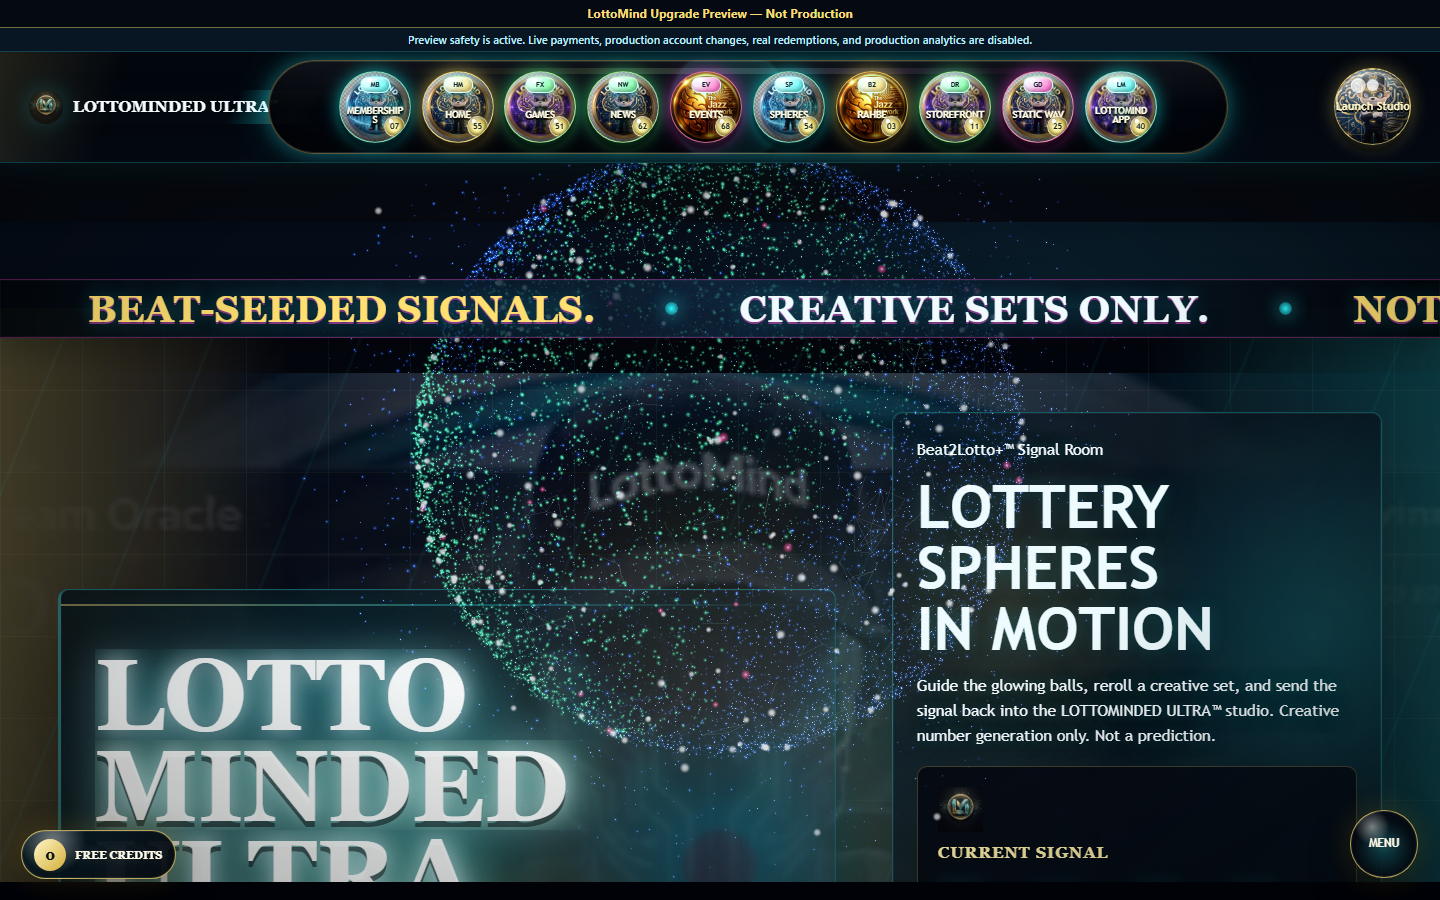
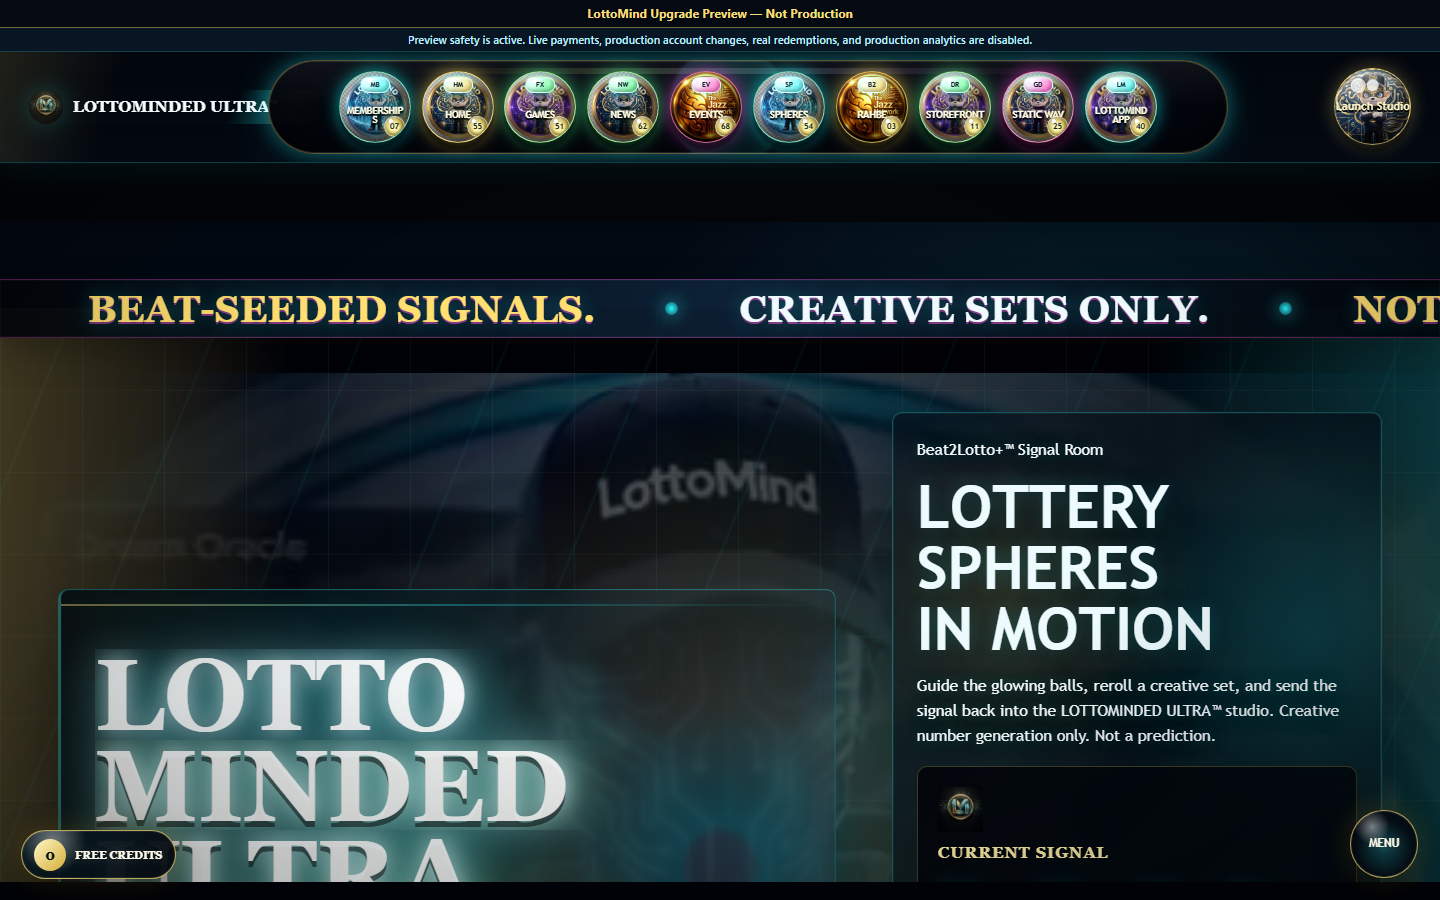
docs: record HUD rail and particle cleanup verification

Changed region(s): [[0.2812, 0.3733, 0.7188, 0.84], [0.3125, 0.1867, 0.6875, 0.3422]]

diff --git a/docs/staging-reviews/signal-media-corrections.md b/docs/staging-reviews/signal-media-corrections.md
@@ -121,3 +121,27 @@
 - Accessibility: The close control has an accessible name, all actions remain keyboard reachable, and reduced-motion capture leaves no running animation.
 - Safety: Staging remains noindex and continues to block live payments, account writes, real redemptions, and production analytics.
 - Approval status: **Ready for next phase.** Production remains unchanged and not approved.
+
+## 2026-07-28 Membership HUD, Arcade Rail, And Particle Cleanup Addendum
+
+- Implementation commits: `63d9025a36bcb9d27348590d13af42f4a107e67e` and `34ef2bdaa282d55339c35b8ccbf54d4c02b8c089`
+- Refreshed routes: Home, Memberships, Arcade, and Storefront
+- Refreshed viewports: 1440x900, 768x1024, and 390x844
+- Verification: 12/12 captures passed HTTP, noindex, staging-banner, horizontal-overflow, console-error, page-error, and same-origin asset checks
+- Membership improvement: The existing inline membership film now uses a cyan, gold, and violet signal HUD with clipped corners, telemetry, and a responsive readout. The film source and commercial lifecycle are unchanged.
+- Arcade improvement: The eight-route game directory is now a keyboard-accessible horizontal snap rail with labeled previous and next controls. The Raytrace Pong display title is now `RAYCHASE PONG`; its playable route is unchanged.
+- Home intentional departure: The WebGL particle entity and floating signal-particle layer were removed at the user's direction. The cinematic film, scan treatment, Guardian cursor, black/gold/cyan/violet palette, and responsible-entertainment language remain recognizable.
+- Storefront intentional departure: The music-reactive equalizer strip was removed. The commercial, playback controls, piano keyboard, FX controls, products, and local-only preorder behavior remain available.
+- Accessibility: The Arcade rail is keyboard focusable, its controls have accessible labels, and reduced-motion mode disables smooth rail scrolling and HUD animation.
+- Performance: Removing the Home WebGL entity eliminates its particle render workload; removing the Storefront analyzer eliminates its per-frame visualizer updates.
+- Safety: Staging remains noindex and visibly labeled. Live payments, production account writes, real redemptions, and production analytics remain blocked.
+- Approval status: **Ready for next phase.** Production remains unchanged and not approved.
+
+### Refreshed Visual Evidence
+
+| Surface | v1 baseline | Staging |
+| --- | --- | --- |
+| Home | [Desktop](../visual-baseline/v1/home--desktop.png) / [Tablet](../visual-baseline/v1/home--tablet.png) / [Mobile](../visual-baseline/v1/home--mobile.png) | [Desktop](./signal-media-corrections-assets/home-1440x900.png) / [Tablet](./signal-media-corrections-assets/home-768x1024.png) / [Mobile](./signal-media-corrections-assets/home-390x844.png) |
+| Membership inline HUD | [Desktop](../visual-baseline/v1/memberships--desktop.png) / [Tablet](../visual-baseline/v1/memberships--tablet.png) / [Mobile](../visual-baseline/v1/memberships--mobile.png) | [Desktop](./signal-media-corrections-assets/membership-inline-hud-1440x900.png) / [Tablet](./signal-media-corrections-assets/membership-inline-hud-768x1024.png) / [Mobile](./signal-media-corrections-assets/membership-inline-hud-390x844.png) |
+| Arcade directory | [Desktop](../visual-baseline/v1/features-app--desktop.png) / [Tablet](../visual-baseline/v1/features-app--tablet.png) / [Mobile](../visual-baseline/v1/features-app--mobile.png) | [Desktop](./signal-media-corrections-assets/arcade-directory-1440x900.png) / [Tablet](./signal-media-corrections-assets/arcade-directory-768x1024.png) / [Mobile](./signal-media-corrections-assets/arcade-directory-390x844.png) |
+| Storefront console | [Desktop](../visual-baseline/v1/merch-store--desktop.png) / [Tablet](../visual-baseline/v1/merch-store--tablet.png) / [Mobile](../visual-baseline/v1/merch-store--mobile.png) | [Desktop](./signal-media-corrections-assets/storefront-console-1440x900.png) / [Tablet](./signal-media-corrections-assets/storefront-console-768x1024.png) / [Mobile](./signal-media-corrections-assets/storefront-console-390x844.png) |

diff --git a/docs/upgrade-redesign-status.md b/docs/upgrade-redesign-status.md
@@ -286,3 +286,17 @@
 - Staging safety: Noindex and preview banners verified; live payments, production account writes, real redemptions, and production analytics remain blocked
 - Live checkout: Not exercised or changed
 - Approval status: Ready for next phase; production remains unchanged and not approved
+
+## Membership HUD, Arcade Rail, And Particle Cleanup
+
+- Step number: Browser-requested Membership HUD, Arcade directory, Home particle, and Storefront visualizer correction
+- Implementation commits: `63d9025a36bcb9d27348590d13af42f4a107e67e` and `34ef2bdaa282d55339c35b8ccbf54d4c02b8c089`
+- Affected routes: `/memberships.html`, `/features-app.html`, `/index.html`, and `/merch-store.html`
+- Changes: Added a responsive futuristic HUD to the existing inline Membership film; converted the eight-game Arcade directory to a swipeable snap rail; renamed the Raytrace Pong display title to `RAYCHASE PONG`; removed the Home WebGL and floating particle layers; removed the Storefront music-reactive equalizer while retaining its commercial and instrument controls
+- Tests: JavaScript checks passed; site validation passed for 15 HTML files; focused Membership/Arcade checks passed 4/4; focused Home/Storefront checks passed 6/6; full source/staging desktop/mobile route matrix passed 92/92; staging safety passed 10/10; staging static verification passed for 23 pages and 541 same-origin references
+- Visual review: 12 staging captures passed at 1440x900, 768x1024, and 390x844 with no horizontal overflow, console errors, page errors, or broken assets; compared with `docs/visual-baseline/v1/`
+- Intentional visual departures: Home particle effects and the Storefront audio analyzer are removed; the Detroit-inspired cinematic film, scan language, Guardian, orb navigation, black/gold/cyan/violet palette, music tools, and arcade identity remain recognizable
+- Staging URL: Local only (`http://127.0.0.1:8143/`)
+- Staging safety: Noindex and preview banners verified; live payments, production account writes, real redemptions, and production analytics remain blocked
+- Live checkout: Not exercised or changed
+- Production approval status: Not approved; production remains unchanged
